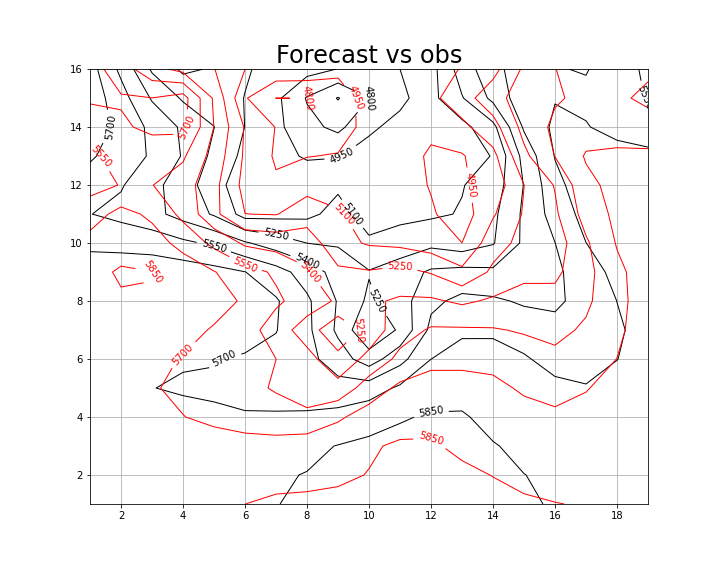
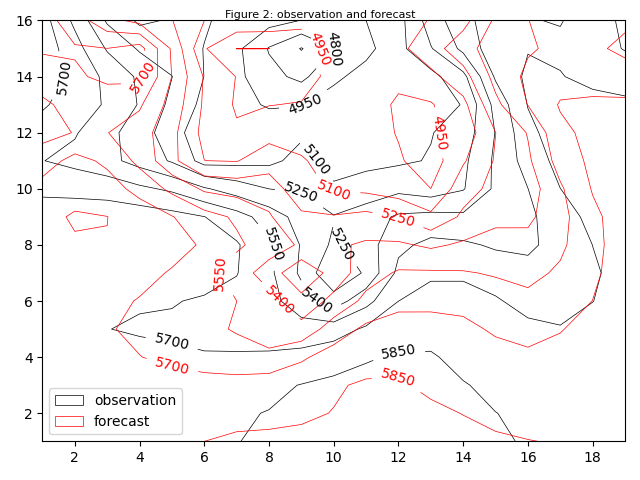
BVE_starting_code.py: prettify figures

diff --git a/BVE_starting_code.py b/BVE_starting_code.py
@@ -15,6 +15,7 @@ DtHours = .5   #  Timestep in hours.
 ################################################### 
 import numpy as np
 import matplotlib.pyplot as plt
+import matplotlib.patches as mpatches
 
 ###################################################
 ##############DEFINE FUNCTIONS#####################
@@ -213,6 +214,16 @@ cntr0 = ax.contour(X, Y, Zout[0,:,:], levels=8, linewidths=0.5, colors='k')
 cntr1 = ax.contour(X, Y, Zout[-1,:,:], levels=8, linewidths=0.5, colors='r')
 ax.clabel(cntr1, inline=True, fontsize=10)
 ax.clabel(cntr0, inline=True, fontsize=10)
+labels = ['IC', 'forecast']
+
+artist = cntr0.legend_elements()[0]
+artist.append(cntr1.legend_elements()[0])
+pers_label = mpatches.Patch(color='k', label='persistence', fill=False, linewidth=0.5)
+forecast_label = mpatches.Patch(color='r', label='forecast', fill=False, linewidth=0.5)
+plt.legend(handles=[pers_label, forecast_label], loc='lower left')
+plt.tight_layout()
+fig.suptitle("Figure 1: persistence and forecast", fontsize=8)
+
 plt.savefig("forecast.png")
 
 fig, ax = plt.subplots(nrows=1)
@@ -222,6 +233,11 @@ cntr0 = ax.contour(X, Y, Z24[:,:], levels=8, linewidths=0.5, colors='k')
 cntr1 = ax.contour(X, Y, Zout[-1,:,:], levels=8, linewidths=0.5, colors='r')
 ax.clabel(cntr1, inline=True, fontsize=10)
 ax.clabel(cntr0, inline=True, fontsize=10)
+obs_label = mpatches.Patch(color='k', label='observation', fill=False, linewidth=0.5)
+plt.legend(handles=[obs_label, forecast_label], loc='lower left')
+plt.tight_layout()
+fig.suptitle("Figure 2: observation and forecast", fontsize=8)
+
 plt.savefig("analysis.png")
 
 fig, ax = plt.subplots(nrows=1)
@@ -231,6 +247,12 @@ cntr0 = ax.contour(X, Y, Zout[-1,:,:]-Zout[0,:,:], levels=6, linewidths=0.5, col
 cntr1 = ax.contour(X, Y, Z24[:,:] - Zout[0,:,:], levels=6, linewidths=0.5, colors='r')
 ax.clabel(cntr1, inline=True, fontsize=10)
 ax.clabel(cntr0, inline=True, fontsize=10)
+obs_tend_label = mpatches.Patch(color='k', label='observed tendency', fill=False, linewidth=0.5)
+forecast_tend_label = mpatches.Patch(color='r', label='forecast tendency', fill=False, linewidth=0.5)
+plt.legend(handles=[obs_tend_label, forecast_tend_label], loc='lower right')
+plt.tight_layout()
+fig.suptitle("Figure 3: observation and forecast tendencies", fontsize=8)
+
 plt.savefig("tendency.png")
 
 def RMSE(x_true, x):
